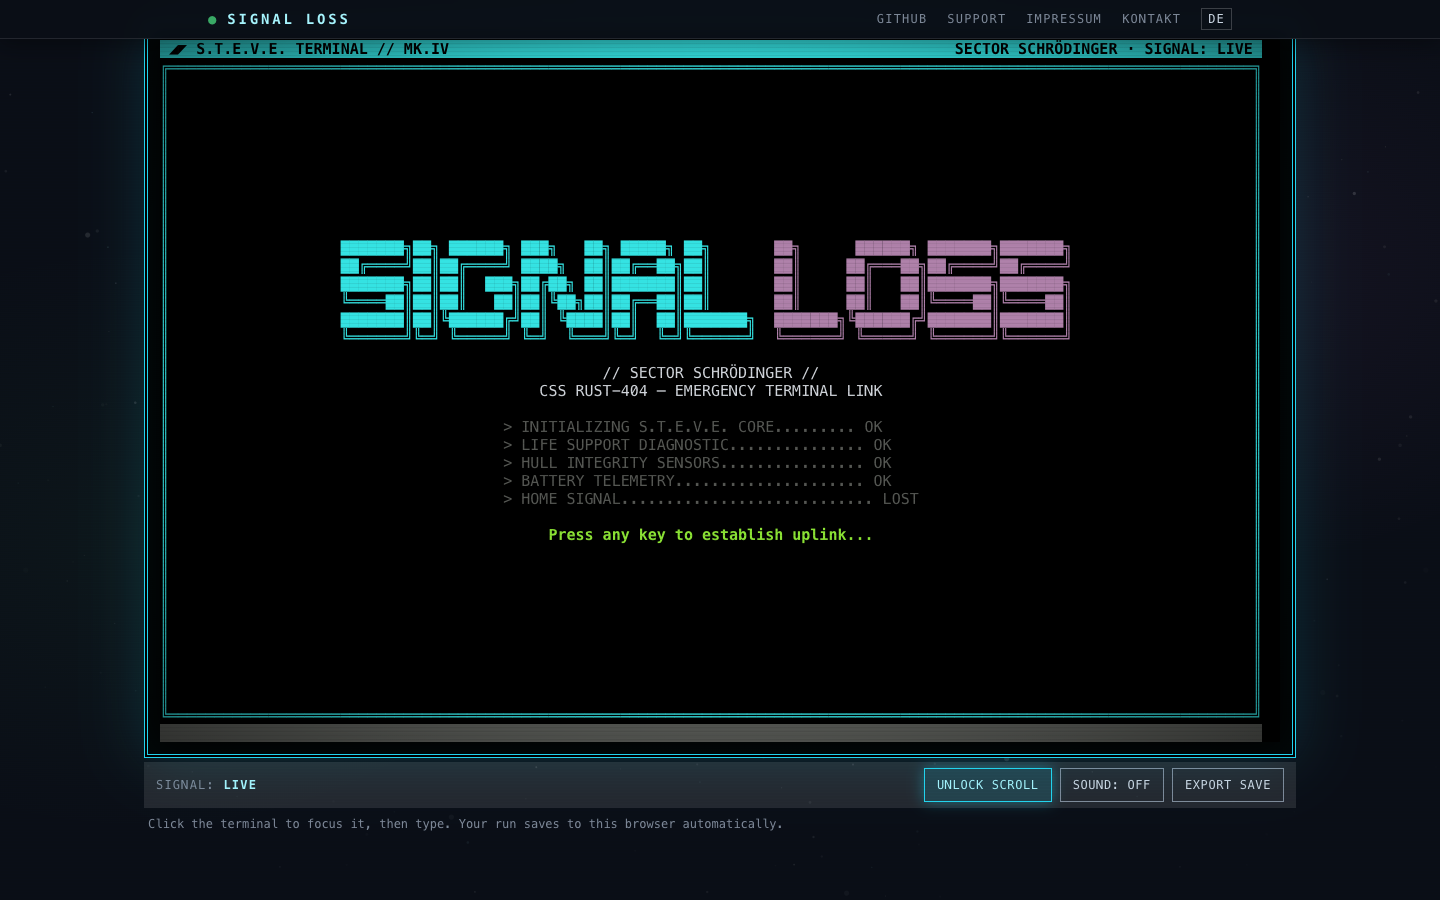
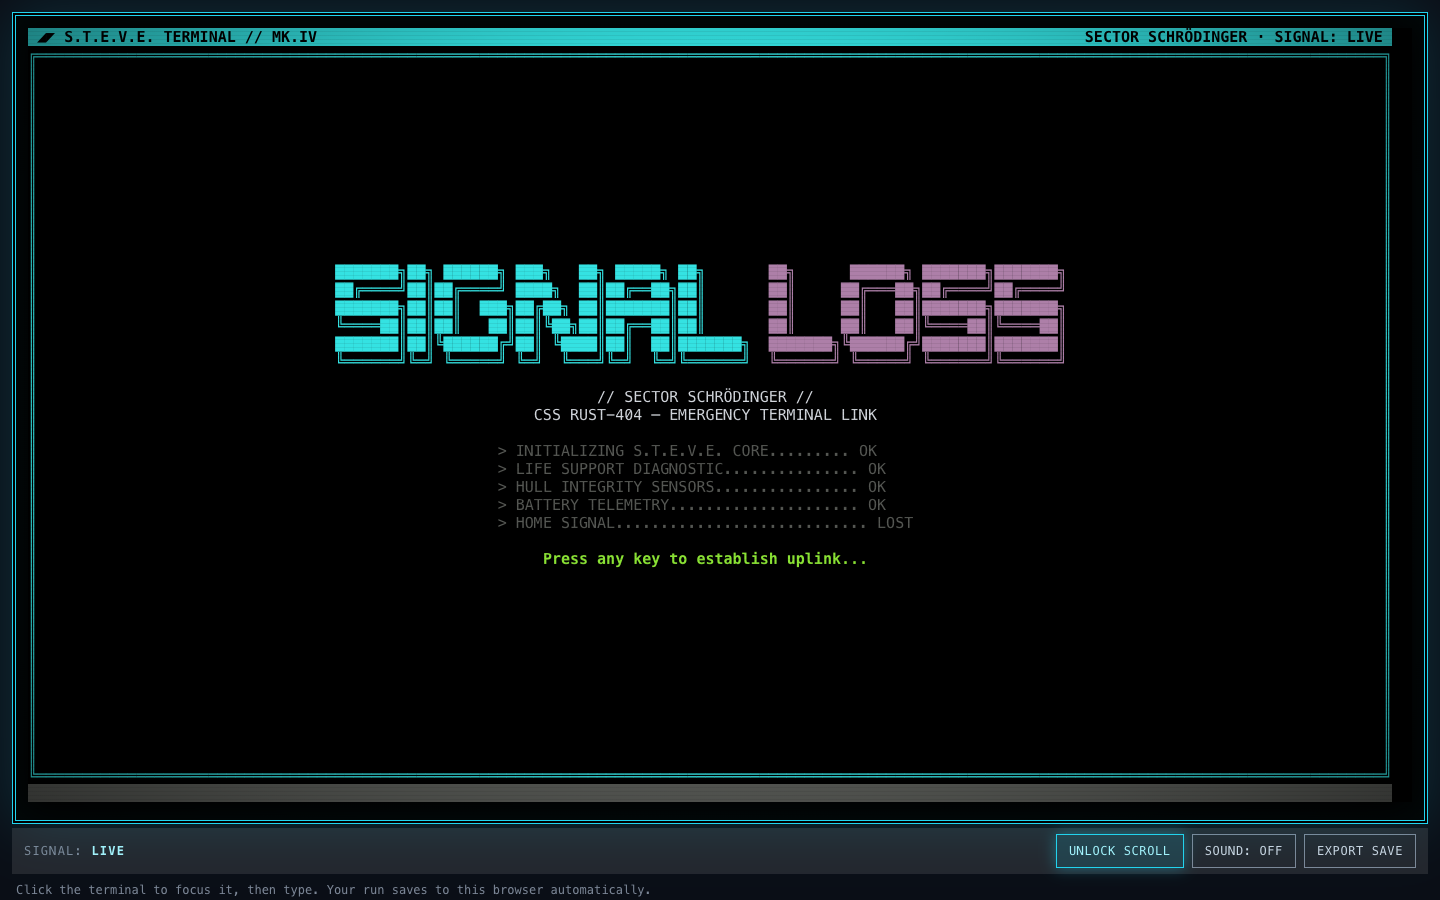
wip(site): lock = terminal takes the whole window

diff --git a/src/styles/global.css b/src/styles/global.css
@@ -266,3 +266,14 @@ body {
 html { scroll-snap-type: y proximity; }
 #play { scroll-snap-align: center; }
 html.play-lock { overflow: hidden; }
+/* Locked: header, ticker and the rest of the page are covered; the terminal gets the whole window. */
+html.play-lock #game-widget {
+  position: fixed;
+  inset: 0;
+  z-index: 60;
+  max-width: none;
+  overflow: auto;
+  padding: 0.75rem;
+  background: var(--color-void);
+}
+html.play-lock #terminal { height: calc(100dvh - 7.5rem) !important; }
